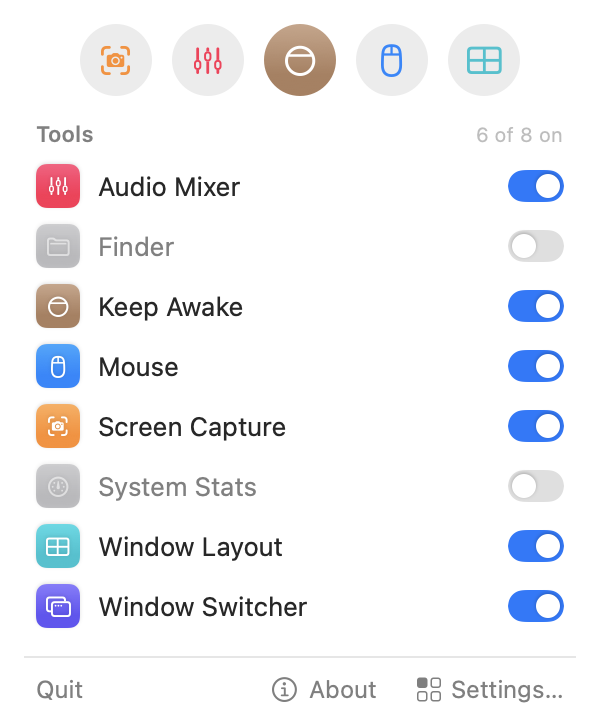
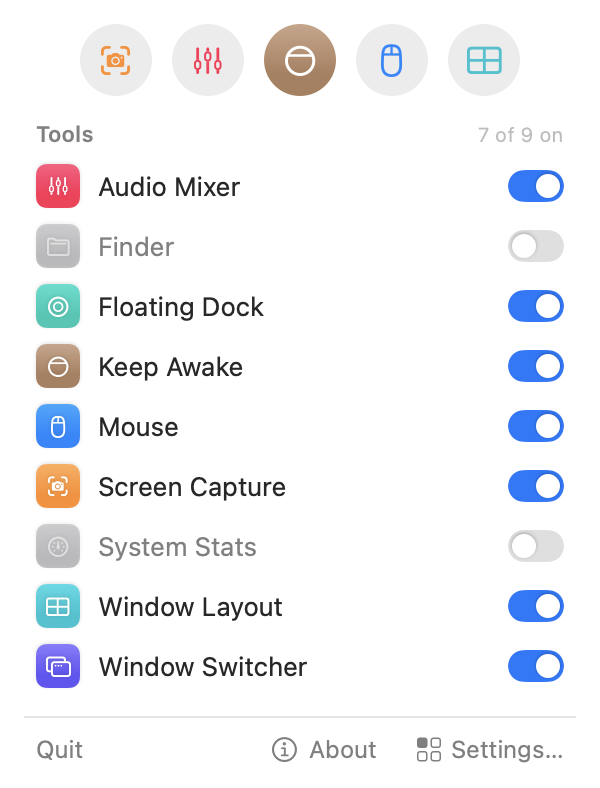
docs: picture what takes space, and the toolkit panel with the floating dock

diff --git a/Sources/Toolkit/App/Snapshot.swift b/Sources/Toolkit/App/Snapshot.swift
@@ -552,6 +552,24 @@ enum Snapshot {
 
     /// A System Stats panel, from made-up readings.
     /// `claudeOnly`: AI usage with Claude Code alone, which opens on its tokens' chart.
+    /// What Takes Space as the Disk tab shows it, from the made-up disk, at the page's width.
+    static func writeDiskMap(to path: String, light: Bool) {
+        _ = NSApplication.shared
+        let card = DiskMapCard(space: DiskSpace.preview())
+            .frame(width: 564)
+            .padding(16)
+            .background(Color(nsColor: .windowBackgroundColor))
+        let host = NSHostingController(rootView: card)
+        let window = NSWindow(contentViewController: host)
+        window.styleMask = [.borderless]
+        window.appearance = NSAppearance(named: light ? .aqua : .darkAqua)
+        window.setContentSize(host.view.fittingSize)
+        onRetina(window)
+        window.layoutIfNeeded()
+        RunLoop.main.run(until: Date().addingTimeInterval(0.5))
+        if let view = window.contentView { save(view, to: path) }
+    }
+
     static func writeStatsPanel(to path: String, light: Bool, kinds: [StatKind], claudeOnly: Bool = false) {
         _ = NSApplication.shared
         let stats = StatsController.preview()

diff --git a/Sources/Toolkit/App/main.swift b/Sources/Toolkit/App/main.swift
@@ -59,6 +59,11 @@ if let flag = CommandLine.arguments.firstIndex(of: "--snapshot"), CommandLine.ar
         Snapshot.writeStatsBar(to: rest[0], light: rest.contains("light"))
         exit(0)
     }
+    if rest.contains("disk-map") {
+        DiskSpace.previewInside = rest.contains("inside")
+        Snapshot.writeDiskMap(to: rest[0], light: rest.contains("light"))
+        exit(0)
+    }
     if rest.contains("stats-panel") {
         let kinds = rest.compactMap(StatKind.init)
         Snapshot.writeStatsPanel(to: rest[0], light: rest.contains("light"), kinds: kinds.isEmpty ? StatKind.allCases : kinds,

diff --git a/README.md b/README.md
@@ -126,7 +126,7 @@ section in the sidebar and (where it makes sense) an entry in the menu bar.
 | 🖱 **[Mouse](#mouse)** | Cursor and wheel settings per mouse, autoscroll on the wheel button, an action for any other button (even one the mouse keeps to itself), plus battery level. |
 | 📁 **[Finder](#finder)** | ⌘X to cut files, two-finger swipes back and forward, and New Text File and Open in Terminal in the right-click menu. |
 | 📸 **[Screen Capture](#screen-capture)** | ⇧⌘3/4/5 screenshots and screen recordings, with window backdrops and small H.264 files, and ⇧⌘2 to copy the text on screen. |
-| 📊 **[System Stats](#system-stats)** | CPU, memory, network, disk, GPU, power and AI usage in the menu bar, with a memory figure that leaves out what macOS only caches. |
+| 📊 **[System Stats](#system-stats)** | CPU, memory, network, disk, GPU, power and AI usage in the menu bar, with a memory figure that leaves out what macOS only caches, and a map of what takes space on the disk. |
 | ☕ **[Keep Awake](#keep-awake)** | Keeps the Mac awake for a while or until you turn it off. |
 | ⭕ **[Floating Dock](#floating-dock)** | Your apps in a ring at the pointer: point and let go to switch, further out for one of their windows. |
 
@@ -899,6 +899,13 @@ stat, even one that's off, and reads it only while the tab is open.
   panel or a tab of the settings shows while it's open, are read; nothing at all while none are, or the
   tool is off. What the CPU and GPU draw is read only while the power panel or tab is open (on a
   desktop, whenever power is read). A reading of all six costs under 2 ms.
+
+<p align="center">
+  <picture>
+    <source media="(prefers-color-scheme: dark)" srcset="docs/images/stats-disk-map-dark.png">
+    <img src="docs/images/stats-disk-map-light.png" width="420" alt="What Takes Space, opened at a home folder: its folders as coloured blocks by size, Movies, Library and Pictures the largest, each with its own largest items outlined inside, and the same folders listed below with their sizes">
+  </picture>
+</p>
 
 ### AI usage
 

diff --git a/AGENTS.md b/AGENTS.md
@@ -392,6 +392,7 @@ swift build                                  # compile check
 .build/debug/Toolkit --snapshot out.png mixer tall [light]      # any page, twice as tall, for the whole of a long one
 .build/debug/Toolkit --snapshot out.png stats <cpu|memory|network|disk|gpu|power> [light]   # that stat's tab of the System Stats page
 .build/debug/Toolkit --snapshot out.png stats disk tall [inside] [light]   # the Disk tab with a made-up disk's map; inside, opened at its home folder
+.build/debug/Toolkit --snapshot out.png disk-map [inside] [light]   # What Takes Space alone, from the made-up disk, for the README
 .build/debug/Toolkit --snapshot out.png mixer driver=<installing|removing|starting|on|outdated|removed|removed-loaded|failed-install> [light]   # the mixer's page, tall enough for the driver's line in that state
 .build/debug/Toolkit --snapshot out.png capture text [light]   # Screen Capture's page with Copy text from the screen on
 .build/debug/Toolkit --snapshot out.png switcher rows=6 [light]   # the Window Switcher's page with that many rows set, more than the made-up laptop has room for
